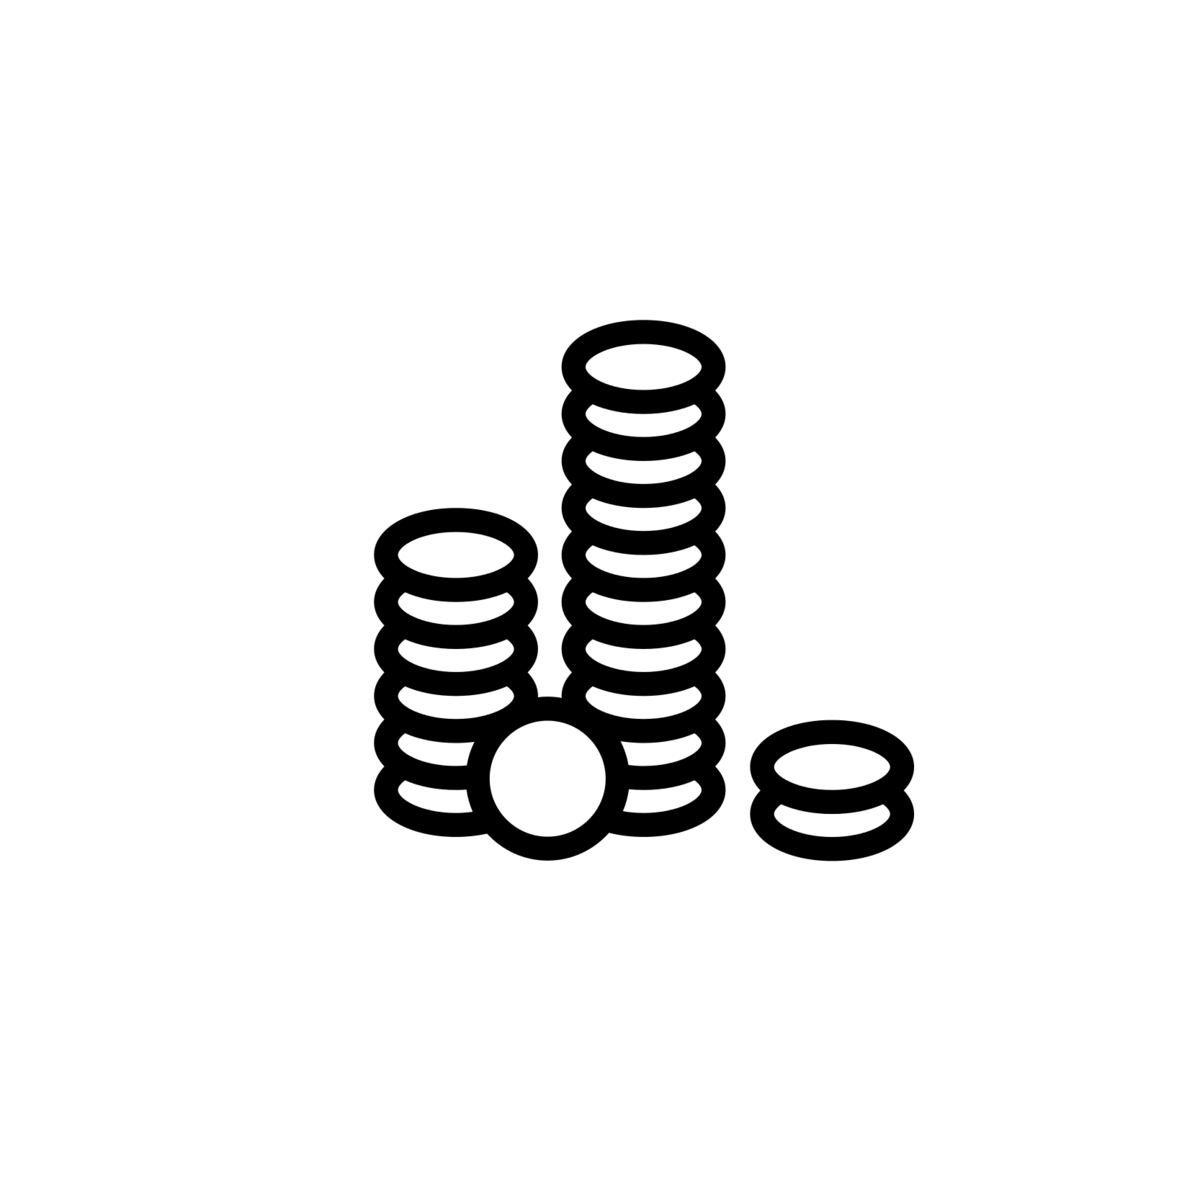
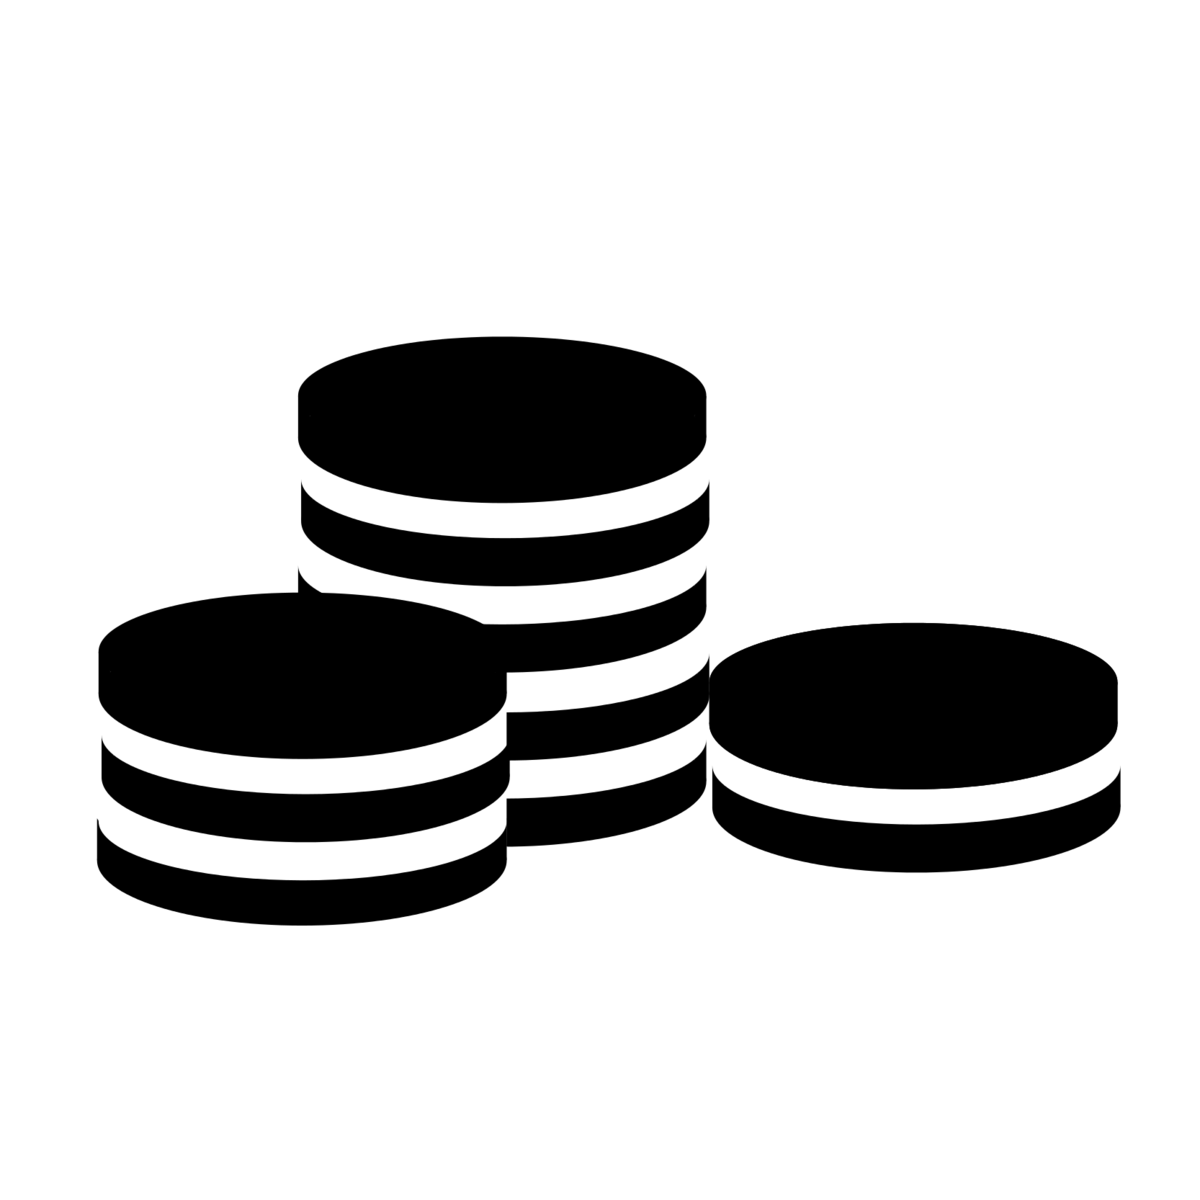
more updates

Changed region(s): [[0.0617, 0.2467, 0.9558, 0.7708]]

diff --git a/default.html b/default.html
@@ -38,15 +38,15 @@
         </div>
         <div class="collapse navbar-collapse">
           <ul class="nav navbar-nav">
-            <li class="active"><a href="#">Home</a></li>
-            <li><a href="#about">About</a></li>
-            <li><a href="#contact">Contact</a></li>
+            <li id="gameMenu" class="active"><a href="#">Game</a></li>
+            <li id="contactMenu"><a href="#contact">Contact</a></li>
+            <li id="aboutMenu" ><a href="#about">Credits</a></li>
           </ul>
         </div><!--/.nav-collapse -->
       </div>
     </div>
 
-    <div class="container">
+    <div class="container game">
       <div id="game">
 
             <!-- Header Row -->
@@ -88,8 +88,40 @@
             </div>        
 
         </div>
-        <button id="reset" onclick="reset()">reset</button>
-        <button id="cheat" onclick="cheat()">cheat</button>
+
+        <div id="about" class="hidden">
+            <div class="row attributionHolder">
+                <h3>Images used courtesy of </br><a href="http://www.thenounproject.com" target="_blank">The Noun Project</a></h3>
+                <div class="row">
+                  <div class="col-md-3"><a href="http://thenounproject.com/term/rat/15130/" target="_blank"><img id="coins" src="img/mouse.png"/></a></br><p class="attribution">by Francisca Arévalo</p></div>
+                  <div class="col-md-3"><a href="http://thenounproject.com/term/dog/8126/" target="_blank"><img id="coins" src="img/dog.png"/></a></br><p class="attribution">by Marta Michalowska</p></div>
+                  <div class="col-md-3"><a href="http://thenounproject.com/term/chicken/33759/" target="_blank"><img id="coins" src="img/chicken.png"/></a></br><p class="attribution">by Adam Zubin</p></div>
+                  <div class="col-md-3"><a href="http://thenounproject.com/term/octopus/15331/" target="_blank"><img id="coins" src="img/octopus.png"/></a></br><p class="attribution">by Jason Grube</p></div>  
+                </div>
+                <div class="row">
+                  <div class="col-md-3"><a href="http://thenounproject.com/term/milipede/9436/" target="_blank"><img id="coins" src="img/millipede.png"/></a></br><p class="attribution">by Rosie Hardwick</p></div>
+                  <div class="col-md-3"><a href="http://thenounproject.com/term/coins/24860/" target="_blank"><img id="coins" src="img/coins.png"/></a></br><p class="attribution">by Sławek Jurczyk</p></div>
+                  <div class="col-md-3"><a href="http://thenounproject.com/term/shrink/33953/" target="_blank"><img id="coins" src="img/plus-120.png"/></a></br><p class="attribution">by P.J. Onori</p></div>
+                  <div class="col-md-3"><a href="http://thenounproject.com/term/octopus/15331/" target="_blank"><img id="coins" src="img/shrink.png"/></a></br><p class="attribution">by Berkay Sargın </p></div>  
+                </div>
+                <div class="row">
+                  <div class="col-md-3"><a href="http://thenounproject.com/term/click/12280/" target="_blank"><img id="coins" src="img/cps.png"/></a></br><p class="attribution">by Rohan Gupta</p></div>
+                </div>
+
+            </div>
+            <div class="row">
+                <button id="reset" onclick="reset()">reset</button>
+                <button id="cheat" onclick="cheat()">cheat</button>
+            </div>
+        </div>
+
+        <div id="contact" class="hidden">
+
+            contacts page
+
+        </div>
+
+
     </div><!-- /.container -->
 
 

diff --git a/js/default.js b/js/default.js
@@ -123,6 +123,59 @@ window.requestAnimFrame = (function () {
 })();
 
 
+
+function locationHashChanged() {
+    
+    switch(location.hash)
+    {
+
+        case "#about":
+            $("#about").removeClass("hidden");
+            $("#aboutMenu").addClass("active");
+
+            $("#game").addClass("hidden");
+            $("#gameMenu").removeClass("active");
+
+            $("#contact").addClass("hidden");
+            $("#contactMenu").removeClass("active");
+
+            /*$('.navbar-collapse').toggle();*/
+
+            break;
+
+        case "#contact":
+            $("#about").addClass("hidden");
+            $("#aboutMenu").removeClass("active");
+
+            $("#contact").removeClass("hidden");
+            $("#contactMenu").addClass("active");
+
+            $("#game").addClass("hidden");
+            $("#gameMenu").removeClass("active");
+
+            break;
+
+        case "#":
+        default:
+            $("#about").addClass("hidden");
+            $("#aboutMenu").removeClass("active");
+
+            $("#contact").addClass("hidden");
+            $("#contactMenu").removeClass("active");
+
+            $("#game").removeClass("hidden");
+            $("#gameMenu").addClass("active");
+
+            break;
+
+    }
+
+
+}
+
+window.onhashchange = locationHashChanged;
+
+
 function gameLoop() {
     $("#totalCurrency").text(accounting.formatMoney(totalCurrency, "$", 0));
     $("#totalCps").text(accounting.formatNumber(CPS, 1, ","));

diff --git a/css/default.css b/css/default.css
@@ -18,6 +18,8 @@
 
 }
 
+
+
 #game {
   padding: 20px 15px;
   text-align: center;
@@ -125,7 +127,7 @@
 @media (min-width: 768px) and (max-device-width: 1024px) {
 
     #items {
-        max-height: 60px;
+        max-height: 80px;
         min-width:120px;
     }
     .itemName {
@@ -298,14 +300,10 @@ button:active {
 
 }
 .attributionHolder{
-    position: absolute;
-    top:1px;
-    left:1px;
-    width:100px;
+
 }
 .attribution{
-    font-size: 8pt;
-    position: relative;
+    font-size: 12pt;
     color:white;
 }
 .update{
